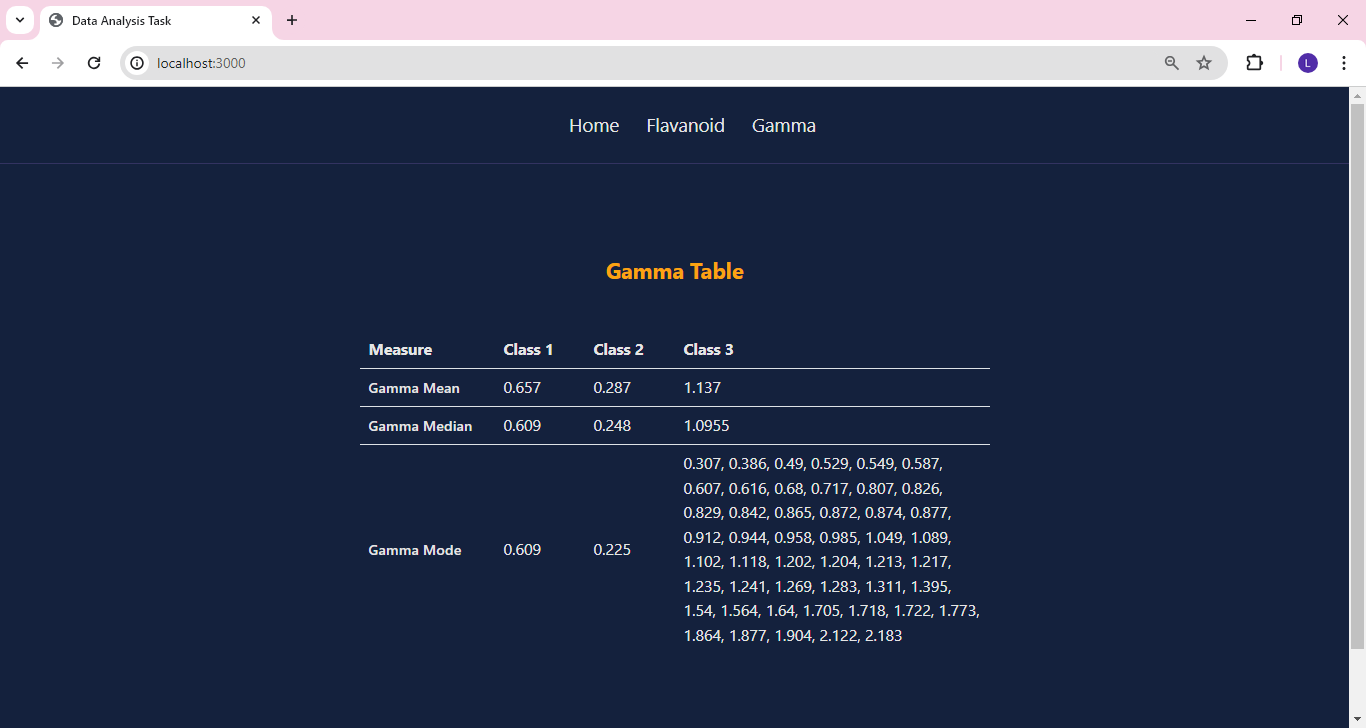
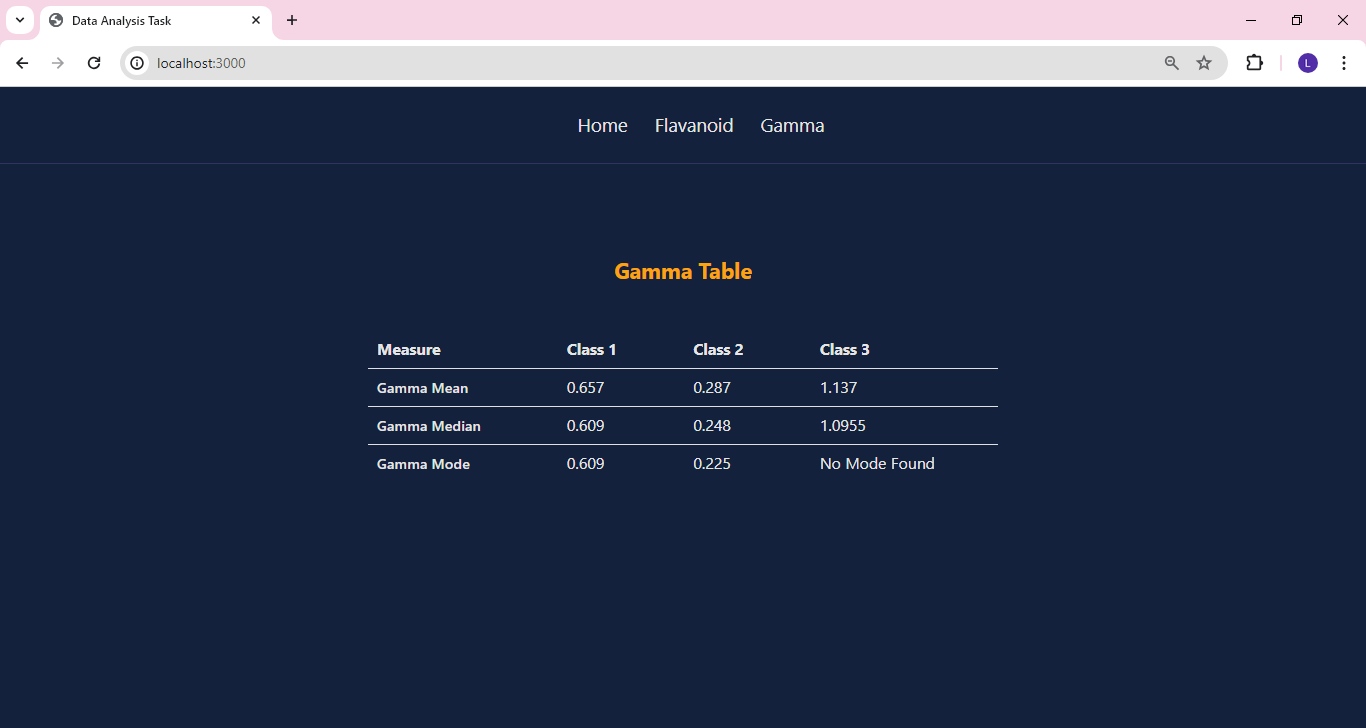
commit

diff --git a/src/components/Mode.js b/src/components/Mode.js
@@ -35,6 +35,10 @@ const Mode = (props) => {
           modeVal[idx].push(Number(val));
         }
       });
+      if (modeVal[idx].length === Object.keys(element).length) {
+        modeVal[idx] = [];
+        modeVal[idx].push("No Mode Found");
+      }
     });
     setMode(modeVal);
   }, [data]);
